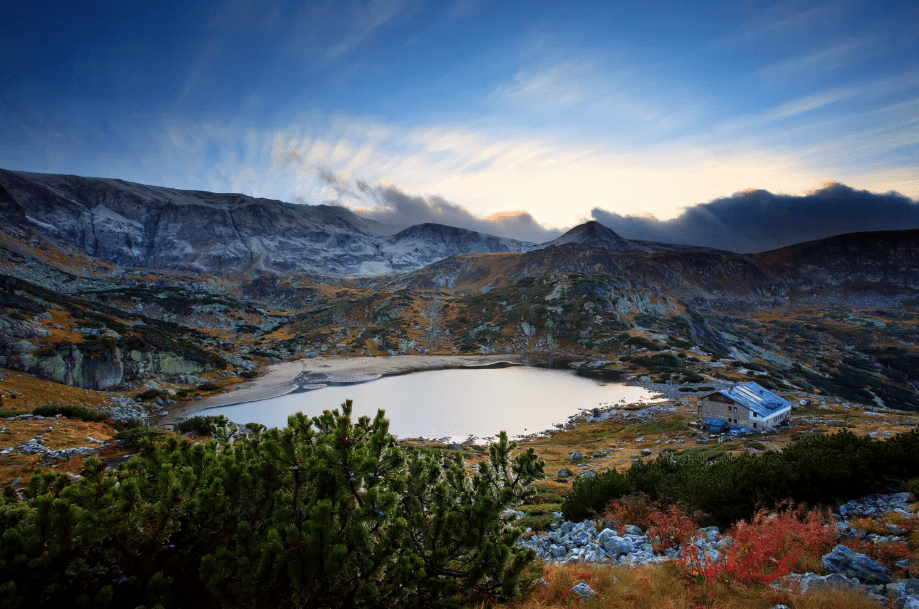
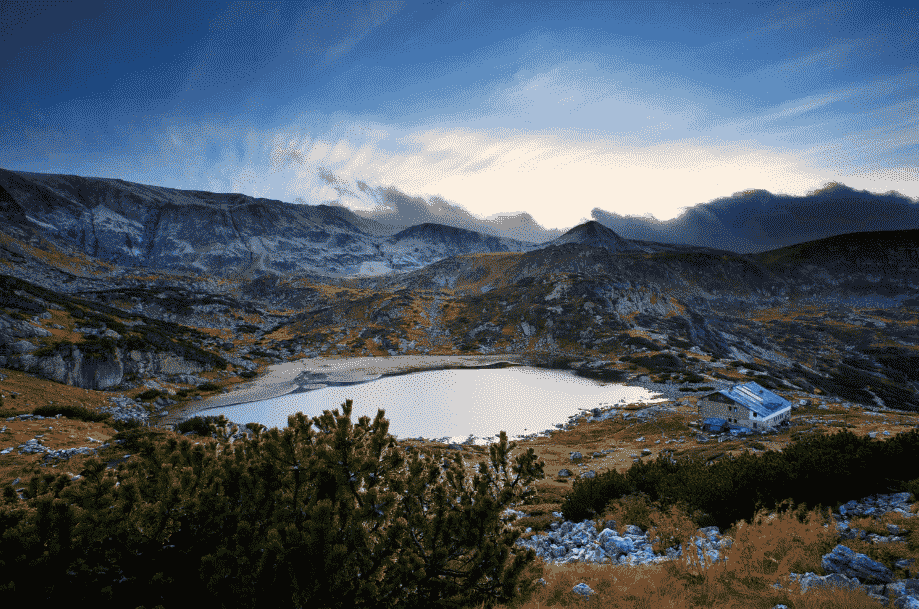
完善社团主页（社团信息和活动） 压缩了一下图片

diff --git a/wxapp/pages/myprofile/organization/index.js b/wxapp/pages/myprofile/organization/index.js
@@ -1,0 +1,68 @@
+Page({
+  data: {
+    coverImageUrl: "../../../assets/articlepicture/1.png",
+    logoUrl: "../../../assets/organizationlogo/1.jpg",
+    iconUrl: [
+      "../../../assets/icon/attention.png",
+      "../../../assets/icon/arrow.png",
+      "../../../assets/icon/organization/address.png",
+      "../../../assets/icon/organization/section.png",
+      "../../../assets/icon/organization/honor.png"
+    ],
+    activity: [
+      {
+        name: "第三十一届维纳斯歌手大赛",
+        imgUrl: "../../../assets/articlepicture/1.png",
+        progress: true
+      },
+      {
+        name: "2016维纳斯歌友会",
+        imgUrl: "../../../assets/articlepicture/2.png",
+        progress: false
+      }
+    ],
+    picture: [
+      "../../../assets/articlepicture/1.png",
+      "../../../assets/articlepicture/2.png",
+      "../../../assets/articlepicture/3.png",
+      "../../../assets/articlepicture/4.png",
+      "../../../assets/articlepicture/4.png",
+      "../../../assets/articlepicture/4.png",
+      "../../../assets/articlepicture/1.png",
+      "../../../assets/articlepicture/2.png",
+      "../../../assets/album/1.jpg",
+      "../../../assets/album/2.jpg",
+      "../../../assets/album/3.jpg",
+      "../../../assets/album/4.jpg",
+      "../../../assets/album/5.jpg"
+    ],
+    hoverclass: [
+      "non-hover-text",
+      "non-hover-text"
+    ],
+    activityOrAlbum: true,
+    attention: false
+  },
+
+  onLoad: function() {
+
+  },
+  changeHoverClass: function(obj) {
+    const index = obj.currentTarget.dataset.index;
+    this.data.hoverclass[0] = "non-hover-text";
+    this.data.hoverclass[1] = "non-hover-text";
+    this.data.hoverclass[index] = "hover-text";
+    this.setData({
+      hoverclass: this.data.hoverclass,
+      activityOrAlbum: !this.data.activityOrAlbum
+    })
+  },
+  makeAttention: function(obj) {
+    const origin = "../../../assets/icon/attention.png";
+    const selected = "../../../assets/icon_selected/attention.png";
+    this.setData({
+      attention: !this.data.attention,
+      "iconUrl[0]": (this.data.iconUrl[0] == origin ? selected : origin)
+    })
+  }
+})
